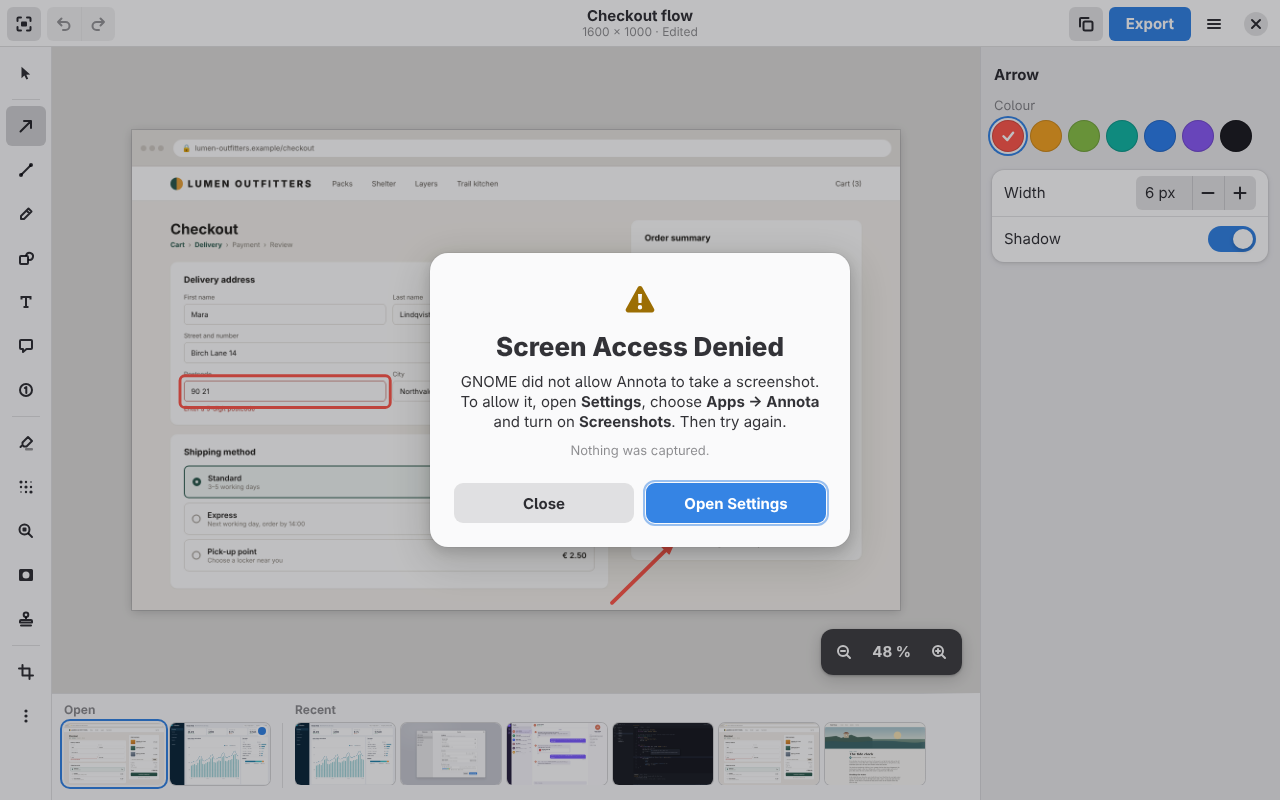
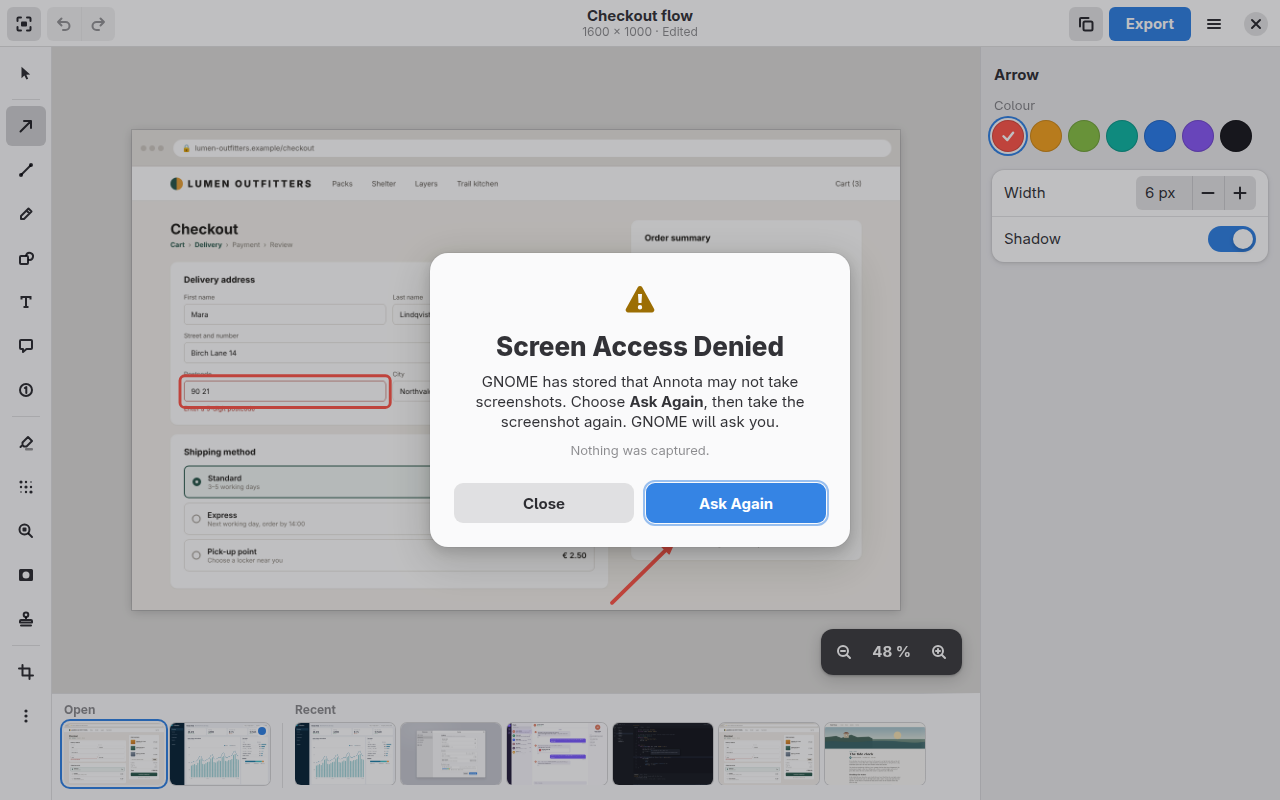
add-screen-capture: redraw mockup 08 with Ask Again, approved
The old text sent users to a Settings switch that GNOME only shows for
Flatpak and Snap apps. The maintainer approved a dialog whose Ask Again
button clears Annota's stored answer. The code follows separately.

diff --git a/docs/design/add-screen-capture/src/08-permission-denied.html b/docs/design/add-screen-capture/src/08-permission-denied.html
@@ -120,9 +120,9 @@ kbd.okey{display:inline-flex;align-items:center;justify-content:center;min-width
   <div class="dialog-host"><div class="dialog alert" style="width:420px;max-width:420px">
 <div class="alert-body"><div style="display:flex;justify-content:center;margin-bottom:6px;color:var(--warning)"><svg class="icon large"><use href="#i-warning"/></svg></div>
 <div class="alert-heading">Screen Access Denied</div>
-<div>GNOME did not allow Annota to take a screenshot. To allow it, open <b>Settings</b>, choose <b>Apps → Annota</b> and turn on <b>Screenshots</b>. Then try again.</div>
+<div>GNOME has stored that Annota may not take screenshots. Choose <b>Ask Again</b>, then take the screenshot again. GNOME will ask you.</div>
 <div class="dim-label" style="font-size:var(--fs-small)">Nothing was captured.</div></div>
-<div class="alert-actions"><button class="btn">Close</button><button class="btn suggested-action focus">Open Settings</button></div></div></div>
+<div class="alert-actions"><button class="btn">Close</button><button class="btn suggested-action focus">Ask Again</button></div></div></div>
 </div>
 <script src="../../kit/icons.js"></script>
 </body>

diff --git a/docs/design/add-screen-capture/index.md b/docs/design/add-screen-capture/index.md
@@ -38,7 +38,8 @@ only Annota chrome follows the style.
 | Cursor inclusion / Include cursor | 01, 03 (pointer toggle), 09 | Default off. Pointer presence in image *verified by test*. |
 | Image from clipboard / Paste | 01 (menu item), 13 | Shift+Ctrl+V; new tab becomes current in tray "Open". |
 | Image from file (open / drop) | 01 (Open Image… Ctrl+O), 14 | Drop zone covers canvas only. |
-| Portal permission handling / Permission denied | 08 | Alert dialog, "Open Settings" is the suggested, focused action. |
+| Portal permission handling / Permission denied | 08 | Alert dialog, "Ask Again" is the suggested, focused action. It names no Settings switch, because GNOME shows that switch only for Flatpak and Snap apps. |
+| Portal permission handling / GNOME could not ask | no mockup, redline below | Standard toast, text under "Permission alert (08)". No dialog. |
 
 ## Redlines
 
@@ -63,7 +64,24 @@ only Annota chrome follows the style.
 
 **Countdown (07)** — centred OSD, radius 30, padding 28/36; ring Ø 148, 8 px track white/18 %, progress Coral; number 72 px heavy; label "Capturing region in 3 s"; keys "Esc Cancel · Enter Capture now". Removed one frame before the grab.
 
-**Permission alert (08)** — `AdwAlertDialog` 420 px; `warning` icon 32 px (warning colour); heading "Screen Access Denied"; body as drawn; caption "Nothing was captured."; buttons "Close", "Open Settings" (suggested, default). Opens `gnome-control-center applications io.github.trosinde.Annota`.
+**Permission alert (08)** — redrawn 2026-11-01, awaiting the maintainer's approval. Shown only when GNOME's permission store holds "no" for Annota. `Adw.Dialog` 420 px as built (`AdwAlertDialog` has no slot for an icon above the heading); `warning` icon 32 px (warning colour), then the texts below in this order, all centred. No command, no "Open Settings".
+
+| Element | English | German |
+|---|---|---|
+| Heading | Screen Access Denied | Bildschirmzugriff verweigert |
+| Body (markup on, bold as written) | `GNOME has stored that Annota may not take screenshots. Choose <b>Ask Again</b>, then take the screenshot again. GNOME will ask you.` | `GNOME hat gespeichert, dass Annota keine Bildschirmfotos aufnehmen darf. Wählen Sie <b>Erneut fragen</b> und nehmen Sie das Bildschirmfoto danach noch einmal auf. GNOME fragt Sie dann.` |
+| Caption (dim, 11 px) | Nothing was captured. | Es wurde nichts aufgenommen. |
+| Button, start | Close | Schließen |
+| Button, end (suggested) | Ask Again | Erneut fragen |
+
+- **Buttons:** Close on the left, Ask Again on the right, equal width, 12 px apart.
+- **Default:** Ask Again. It has the initial focus (ring as drawn), and Enter activates it.
+- **Close response:** Close. Esc does the same as the Close button: the dialog closes and the stored answer stays.
+- **Ask Again:** removes Annota's own entry from the permission store (`DeletePermission` on table `screenshot`, id `screenshot`, app `io.github.trosinde.Annota`), and no other app's entry. The dialog closes and nothing is captured, no capture starts and no access is granted. No toast is drawn for success. The next region or screen capture finds nothing stored, so GNOME shows its own question. Window mode never asks, because the portal doesn't check it.
+
+**Toast "GNOME could not ask"** — approved by the maintainer. Standard `AdwToast` on an Annota window the user can retry from, no button. No "Screen Access Denied" dialog in this case.
+- English: "GNOME could not ask for screen access. Click this window and try again."
+- German: "GNOME konnte nicht nach dem Bildschirmzugriff fragen. Klicken Sie in dieses Fenster und versuchen Sie es erneut."
 
 **Preferences › Capture (09/10/11)** — `AdwPreferencesDialog` 660 × 720, view switcher General / Capture / Library.
 - Group "Global Shortcuts", rows: Region capture `Print`, Window capture `Alt+Print`, Screen capture `Shift+Print` (keycaps + chevron, row opens 11; per decision D9, these are the GNOME screenshot keys Annota offers to take over at first launch, not new combinations).
@@ -80,3 +98,4 @@ only Annota chrome follows the style.
 ## Open questions
 - Wayland window capture: portal picker look is GNOME's; if the portal returns a full screen instead of a window (older portals), do we fall back to the X11-style pick overlay on the frozen image? Mockup 06 would cover it.
 - Overlay toolbar delay dropdown values (1/2/3/5/10 s + Custom) are proposed, not in spec.
+- For the engineer, permission alert (08): no state is designed for removing the stored answer failing (store unreachable, timeout, error reply). The drawn dialog closes on Ask Again, so a failure would be silent, and the next capture would show this dialog again. Report what can fail; the designer draws the state before it is built. Do not invent text for it.

diff --git a/CLAUDE.md b/CLAUDE.md
@@ -108,8 +108,8 @@ annota/
 ## 4. Project status and build
 
 **Status (2026-11-01)**
-- `add-export-share`: all implementation tasks built; reviewer found no blockers, follow-up fixes
-  and 3.2/3.3 are still open (see its `tasks.md`). Archive it after `add-annotation-editor` and
+- `add-export-share`: all implementation tasks built; reviewer found no blockers and its follow-ups
+  are fixed; 3.2 (a final reviewer pass) and 3.3 (Ubuntu 24.04) are open. Archive it after `add-annotation-editor` and
   `add-core-annotation-tools`, whose specs its MODIFIED deltas need. `add-capture-library` is the
   last MVP change not started.
 - Roadmap: 18 OpenSpec changes in `openspec/changes/`, all validated. `bootstrap-app-shell` is
@@ -120,8 +120,8 @@ annota/
   more such check, the eyedropper's PickColor call) that was deliberately left to the maintainer
   rather than run from a dev session; see `openspec/changes/add-screen-capture/manual-checks.md`
   (covers the eyedropper row too) and `add-core-annotation-tools/manual-checks.md`.
-  `add-style-system/manual-checks.md` has one row of its own (a focus-management check that
-  has no automated regression test yet). **Archive
+  `add-style-system/manual-checks.md` lists what its focus regression test does not exercise
+  (a real right-click and Escape). **Archive
   order: add-screen-capture, then add-annotation-editor** (its spec deltas build on the first —
   task 5.6 in its `tasks.md`); `add-core-annotation-tools` has no technical ordering dependency on
   either (new `annotation-tools` capability only) but logically assumes the editor exists, so

diff --git a/openspec/changes/add-screen-capture/design.md b/openspec/changes/add-screen-capture/design.md
@@ -20,7 +20,8 @@ Source HTML: `docs/design/add-screen-capture/src/`; dark and 2× renders sit nex
 - [13-paste-from-clipboard](../../../docs/design/add-screen-capture/png/13-paste-from-clipboard-light@1x.png)
 - [14-drop-image-file](../../../docs/design/add-screen-capture/png/14-drop-image-file-light@1x.png)
 
-Design approved: 2026-10-30
+Design approved: 2026-10-30; screen 08 redrawn with Close / Ask Again and approved 2026-11-01, also
+the "could not ask" toast text
 
 ## Technical decisions
 - `ashpd` for Screenshot portal (non-interactive full-screen grab, then own overlay)
